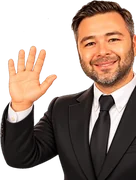
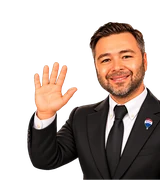
Ofis Takvimi: Orhan'ın yeni el sallayan resmi, herkesin resmi aynı yüz boyuna göre kesildi
Claude-Session: https://claude.ai/code/session_014SKq8WkohqfPMp3wdCpcDB

diff --git a/takvim.html b/takvim.html
@@ -427,14 +427,14 @@ function bugunCiz(){
 // Nöbetçinin dekupe fotoğrafı kutunun sağ altında, yazıların arkasında (Umut 18 Eki); Ofis günlerinde yok
 const NOBET_FIG = {aysegul:1,aysun:1,evsen:1,gamze:1,gizem:1,irem:1,orhan:1,ozlem:1};
 // Nöbetçi resimleri baştan indirilsin, ızgarada sonradan belirmesin (Umut 18 Eki)
-Object.keys(NOBET_FIG).forEach(id=>{ const i=new Image(); i.src=`assets/ekip/${innerWidth<600?'nobet/omuz':'nobet'}/${id}.webp?v=3`; });
-function figUrl(ad){ const u=fotoUrl(ad), id=u && u.split('/').pop().replace('.webp',''); return id && NOBET_FIG[id] ? `assets/ekip/nobet/${id}.webp?v=3` : ''; }
+Object.keys(NOBET_FIG).forEach(id=>{ const i=new Image(); i.src=`assets/ekip/${innerWidth<600?'nobet/omuz':'nobet'}/${id}.webp?v=4`; });
+function figUrl(ad){ const u=fotoUrl(ad), id=u && u.split('/').pop().replace('.webp',''); return id && NOBET_FIG[id] ? `assets/ekip/nobet/${id}.webp?v=4` : ''; }
 function nobetFig(o){
   if (!o || o.tur!=='nobet' || o.nobetci==='Ofis') return '';
   const u=fotoUrl(o.nobetci), id=u && u.split('/').pop().replace('.webp','');
   // Telefonda diğer omuz kesik görsel: el görünür, kişi kutunun sağ kenarına yaslı (Umut 18 Eki)
   const yol=innerWidth<600?'nobet/omuz':'nobet';
-  return id && NOBET_FIG[id] ? `<img class="nfig" src="assets/ekip/${yol}/${id}.webp?v=3" alt="">` : '';
+  return id && NOBET_FIG[id] ? `<img class="nfig" src="assets/ekip/${yol}/${id}.webp?v=4" alt="">` : '';
 }
 // Telefonda ay ızgarası ekranın kalanını kaplar, kutular uzun (Umut 18 Eki, seçenek A)
 function izgaraBoyut(){
